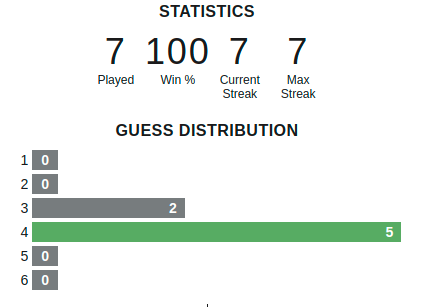
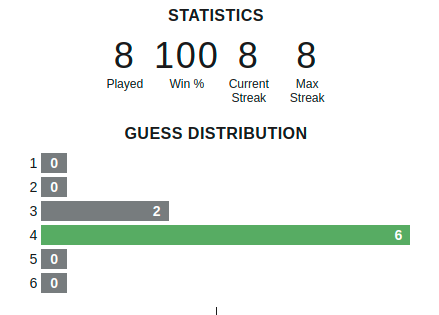
blah

diff --git a/README.md b/README.md
@@ -32,6 +32,13 @@
 
 ![stats](stats.png)
 
+25/01/22/: Wordle 220 4/6
+
+⬜⬜🟨🟨⬜<br/>
+⬜🟨🟨⬜⬜<br/>
+🟩⬜🟨🟩⬜<br/>
+🟩🟩🟩🟩🟩<br/>
+
 24/01/22: Wordle 219 4/6
 
 ⬜⬜⬜⬜⬜<br/>
